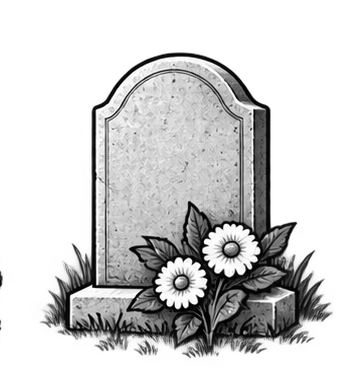
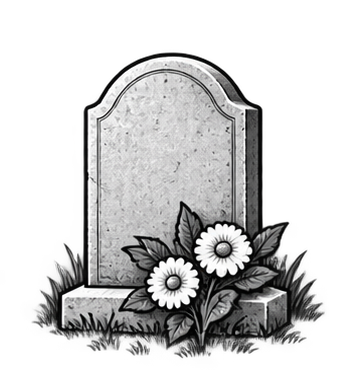
Refine slide 4 spacing and labels

diff --git a/docs/slide-04.html b/docs/slide-04.html
@@ -237,19 +237,40 @@
     .system-tag.is-muted { opacity: .12; pointer-events: none; }
     .system-tag:focus-visible, select:focus-visible { outline: 3px solid rgb(8 127 140 / 26%); outline-offset: 2px; }
 
-    .person-node { left: 22px; top: 142px; width: 136px; height: 296px; }
-    .clinic-node { left: 188px; top: 20px; width: 244px; height: 174px; }
-    .lab-node { left: 598px; top: 18px; width: 274px; height: 188px; }
-    .ed-node { left: 198px; top: 232px; width: 234px; height: 214px; }
-    .hospital-node { left: 476px; top: 214px; width: 256px; height: 236px; }
-    .mortality-node { left: 760px; top: 232px; width: 150px; height: 224px; }
+    .person-node { left: 22px; top: 160px; width: 110px; height: 270px; }
+    .clinic-node { left: 190px; top: 30px; width: 190px; height: 155px; }
+    .lab-node { left: 565px; top: 24px; width: 335px; height: 178px; }
+    .ed-node { left: 190px; top: 250px; width: 190px; height: 190px; }
+    .hospital-node { left: 450px; top: 235px; width: 210px; height: 210px; }
+    .mortality-node { left: 745px; top: 245px; width: 140px; height: 210px; }
 
-    .person-node img { max-height: 270px; }
-    .clinic-node img { max-width: 230px; }
-    .lab-node img { max-width: 252px; }
-    .ed-node img { max-width: 222px; }
-    .hospital-node img { max-width: 234px; }
-    .mortality-node img { max-height: 142px; }
+    .person-node img { max-height: 238px; }
+    .clinic-node img { max-width: 180px; }
+    .ed-node img { max-width: 180px; }
+    .hospital-node img { max-width: 190px; }
+    .mortality-node img { max-height: 120px; }
+
+    .lab-node {
+      grid-template-rows: 22px minmax(0, 1fr);
+      justify-items: stretch;
+    }
+
+    .lab-node .node-title {
+      width: 210px;
+      text-align: center;
+    }
+
+    .lab-row {
+      display: grid;
+      grid-template-columns: 210px 110px;
+      gap: 12px;
+      min-height: 0;
+      align-items: center;
+    }
+
+    .lab-row img { max-width: 205px; max-height: 145px; justify-self: center; }
+    .lab-node .node-systems { flex-direction: column; align-items: stretch; gap: 6px; padding: 0; }
+    .lab-node .system-tag { width: 100%; }
 
     .mortality-node .node-systems { flex-direction: column; gap: 4px; padding-top: 4px; }
     .mortality-node .system-tag { min-height: 27px; padding-top: 3px; padding-bottom: 3px; }
@@ -364,13 +385,13 @@
                 <path d="M 0 0 L 10 5 L 0 10 z" fill="#0a6670"></path>
               </marker>
             </defs>
-            <path class="patient-path" d="M 158 292 H 178 V 108 H 188"></path>
-            <path class="patient-path" d="M 158 292 H 198"></path>
-            <path class="patient-path" d="M 432 335 H 476"></path>
-            <path class="patient-path" d="M 732 335 H 760"></path>
-            <path class="specimen-path" d="M 432 108 H 598"></path>
-            <path class="specimen-path" d="M 315 232 V 204 H 574 V 170 H 598"></path>
-            <path class="specimen-path" d="M 604 214 V 196 H 704 V 188"></path>
+            <path class="patient-path" d="M 132 305 H 160 V 108 H 190"></path>
+            <path class="patient-path" d="M 132 305 H 160 V 345 H 190"></path>
+            <path class="patient-path" d="M 380 345 H 450"></path>
+            <path class="patient-path" d="M 660 345 H 745"></path>
+            <path class="specimen-path" d="M 380 108 H 565"></path>
+            <path class="specimen-path" d="M 285 250 V 215 H 545 V 150 H 565"></path>
+            <path class="specimen-path" d="M 555 235 V 205 H 670 V 188"></path>
           </svg>
 
           <div class="path-node person-node">
@@ -388,10 +409,12 @@
 
           <div class="path-node lab-node">
             <div class="node-title">Virologic testing</div>
-            <img src="assets/slide-04-lab.webp" alt="A clinical virology laboratory">
-            <div class="node-systems">
-              <button class="system-tag" type="button" data-system="icls" data-category="virologic"><span>ICLS</span></button>
-              <button class="system-tag" type="button" data-system="nrevss" data-category="virologic"><span>NREVSS</span></button>
+            <div class="lab-row">
+              <img src="assets/slide-04-lab.webp" alt="A clinical virology laboratory">
+              <div class="node-systems">
+                <button class="system-tag" type="button" data-system="icls" data-category="virologic"><span>ICLS</span></button>
+                <button class="system-tag" type="button" data-system="nrevss" data-category="virologic"><span>NREVSS</span></button>
+              </div>
             </div>
           </div>
 

diff --git a/src/slide-04.template.html b/src/slide-04.template.html
@@ -237,19 +237,40 @@
     .system-tag.is-muted { opacity: .12; pointer-events: none; }
     .system-tag:focus-visible, select:focus-visible { outline: 3px solid rgb(8 127 140 / 26%); outline-offset: 2px; }
 
-    .person-node { left: 22px; top: 142px; width: 136px; height: 296px; }
-    .clinic-node { left: 188px; top: 20px; width: 244px; height: 174px; }
-    .lab-node { left: 598px; top: 18px; width: 274px; height: 188px; }
-    .ed-node { left: 198px; top: 232px; width: 234px; height: 214px; }
-    .hospital-node { left: 476px; top: 214px; width: 256px; height: 236px; }
-    .mortality-node { left: 760px; top: 232px; width: 150px; height: 224px; }
+    .person-node { left: 22px; top: 160px; width: 110px; height: 270px; }
+    .clinic-node { left: 190px; top: 30px; width: 190px; height: 155px; }
+    .lab-node { left: 565px; top: 24px; width: 335px; height: 178px; }
+    .ed-node { left: 190px; top: 250px; width: 190px; height: 190px; }
+    .hospital-node { left: 450px; top: 235px; width: 210px; height: 210px; }
+    .mortality-node { left: 745px; top: 245px; width: 140px; height: 210px; }
 
-    .person-node img { max-height: 270px; }
-    .clinic-node img { max-width: 230px; }
-    .lab-node img { max-width: 252px; }
-    .ed-node img { max-width: 222px; }
-    .hospital-node img { max-width: 234px; }
-    .mortality-node img { max-height: 142px; }
+    .person-node img { max-height: 238px; }
+    .clinic-node img { max-width: 180px; }
+    .ed-node img { max-width: 180px; }
+    .hospital-node img { max-width: 190px; }
+    .mortality-node img { max-height: 120px; }
+
+    .lab-node {
+      grid-template-rows: 22px minmax(0, 1fr);
+      justify-items: stretch;
+    }
+
+    .lab-node .node-title {
+      width: 210px;
+      text-align: center;
+    }
+
+    .lab-row {
+      display: grid;
+      grid-template-columns: 210px 110px;
+      gap: 12px;
+      min-height: 0;
+      align-items: center;
+    }
+
+    .lab-row img { max-width: 205px; max-height: 145px; justify-self: center; }
+    .lab-node .node-systems { flex-direction: column; align-items: stretch; gap: 6px; padding: 0; }
+    .lab-node .system-tag { width: 100%; }
 
     .mortality-node .node-systems { flex-direction: column; gap: 4px; padding-top: 4px; }
     .mortality-node .system-tag { min-height: 27px; padding-top: 3px; padding-bottom: 3px; }
@@ -364,13 +385,13 @@
                 <path d="M 0 0 L 10 5 L 0 10 z" fill="#0a6670"></path>
               </marker>
             </defs>
-            <path class="patient-path" d="M 158 292 H 178 V 108 H 188"></path>
-            <path class="patient-path" d="M 158 292 H 198"></path>
-            <path class="patient-path" d="M 432 335 H 476"></path>
-            <path class="patient-path" d="M 732 335 H 760"></path>
-            <path class="specimen-path" d="M 432 108 H 598"></path>
-            <path class="specimen-path" d="M 315 232 V 204 H 574 V 170 H 598"></path>
-            <path class="specimen-path" d="M 604 214 V 196 H 704 V 188"></path>
+            <path class="patient-path" d="M 132 305 H 160 V 108 H 190"></path>
+            <path class="patient-path" d="M 132 305 H 160 V 345 H 190"></path>
+            <path class="patient-path" d="M 380 345 H 450"></path>
+            <path class="patient-path" d="M 660 345 H 745"></path>
+            <path class="specimen-path" d="M 380 108 H 565"></path>
+            <path class="specimen-path" d="M 285 250 V 215 H 545 V 150 H 565"></path>
+            <path class="specimen-path" d="M 555 235 V 205 H 670 V 188"></path>
           </svg>
 
           <div class="path-node person-node">
@@ -388,10 +409,12 @@
 
           <div class="path-node lab-node">
             <div class="node-title">Virologic testing</div>
-            <img src="assets/slide-04-lab.webp" alt="A clinical virology laboratory">
-            <div class="node-systems">
-              <button class="system-tag" type="button" data-system="icls" data-category="virologic"><span>ICLS</span></button>
-              <button class="system-tag" type="button" data-system="nrevss" data-category="virologic"><span>NREVSS</span></button>
+            <div class="lab-row">
+              <img src="assets/slide-04-lab.webp" alt="A clinical virology laboratory">
+              <div class="node-systems">
+                <button class="system-tag" type="button" data-system="icls" data-category="virologic"><span>ICLS</span></button>
+                <button class="system-tag" type="button" data-system="nrevss" data-category="virologic"><span>NREVSS</span></button>
+              </div>
             </div>
           </div>
 
